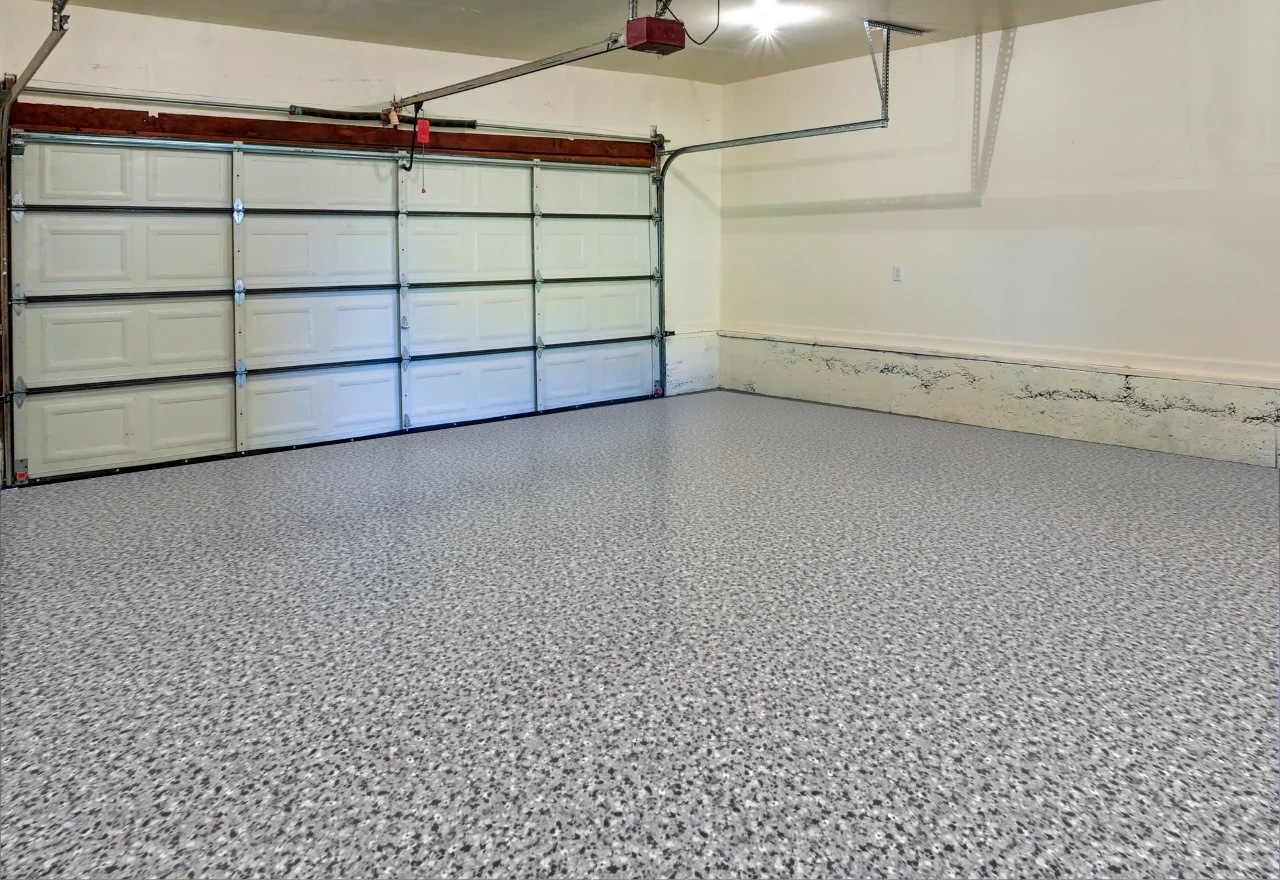
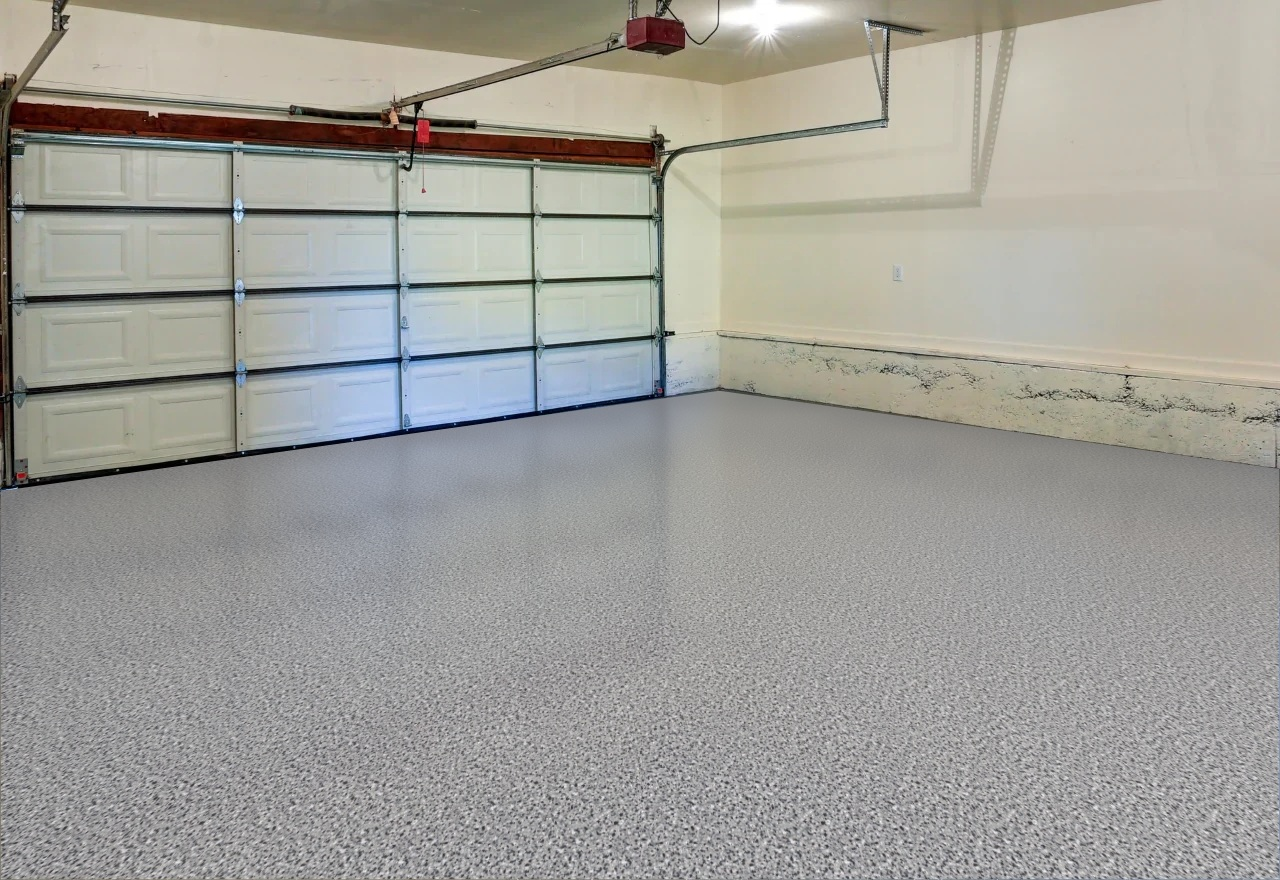
Reduce visualizer flake scale and mix chip sizes across all 27 previews

Changed region(s): [[0.0, 0.5523, 1.0, 1.0]]

diff --git a/floor-visualizer.html b/floor-visualizer.html
@@ -1461,7 +1461,7 @@ function fvApplyColor(skipTrack){
       var preview = new Image();
       preview.onload = function(){ finish(preview.src); };
       preview.onerror = function(){ if (request === fvRenderRequest) render(); };
-      preview.src = 'visualizer-previews/' + color.slug.toLowerCase() + '.jpg';
+      preview.src = 'visualizer-previews/' + color.slug.toLowerCase() + '.jpg?v=20260911-fine';
     } else render();
   }
   if (!skipTrack && color) fvTrack('floor_color_selected', {color: color.slug});
@@ -1870,19 +1870,12 @@ function fvComposite(room, color, callback, shouldCancel){
     // stamp fades out through a radial gradient, no hard edge exists
     // anywhere, and because the stamps wrap, the tile's own borders match
     // perfectly — so it can repeat forever with nothing to see.
-    // CHIP SCALE — this is the bug that made the flakes look enormous.
-    // The previous version cropped 270px of the source photo and drew it
-    // into 337px, i.e. it MAGNIFIED the product photo 1.25x. Source chips
-    // (~30px) became ~37px, so a 512px tile held only ~14 chips, and that
-    // tile was then stretched across ~794px of the near floor — roughly
-    // 58px per chip. Real 1/4" full-broadcast flake reads at ~12-15px at
-    // that distance. Chips are now DOWNSCALED so the tile carries ~37 of
-    // them, cutting rendered chip size by about 75%.
+    // Build detailed chips in texture space; room projection below sets their visible size.
     var TILE = 768;
     var CHIPS_ACROSS_TILE = 72;
     var SRC_CHIP_PX = 30;               // approx chip size in the product photos
     var chipInTile = TILE / CHIPS_ACROSS_TILE;
-    var chipScale = chipInTile / SRC_CHIP_PX; // ~0.46 => a real reduction, not a magnification
+    var chipScale = chipInTile / SRC_CHIP_PX; // reduce the source chips in texture space
 
     var tileCanvas = document.createElement('canvas');
     tileCanvas.width = TILE; tileCanvas.height = TILE;
@@ -1914,7 +1907,6 @@ function fvComposite(room, color, callback, shouldCancel){
     var ds = Math.max(6, cropW * chipScale);        // reduced, never magnified
     var stampSize = Math.max(8, Math.round(ds / 1.5));
     var stampR = stampSize / 2;
-    var maxOffX = Math.max(1, srcW - cropW), maxOffY = Math.max(1, srcH - cropH);
     var stampCanvas = document.createElement('canvas');
     stampCanvas.width = stampSize; stampCanvas.height = stampSize;
     var stampCtx = stampCanvas.getContext('2d');
@@ -1966,15 +1958,21 @@ function fvComposite(room, color, callback, shouldCancel){
       // slight brightness/saturation shift. Real flake is hand-broadcast,
       // so chip size and colour drift across a floor; without this the
       // eye eventually picks up machine-like uniformity.
-      var sJit = 0.90 + rnd() * 0.20;          // +/- ~10% chip size
-      var dsj = ds * sJit;
+      // Mix smaller fragments with medium chips and occasional larger pieces.
+      // Change the source crop, keeping the stamp footprint fully covered.
+      var sizePick = rnd();
+      var sJit = sizePick < 0.55 ? 0.55 + rnd() * 0.30
+        : sizePick < 0.92 ? 0.85 + rnd() * 0.30 : 1.15 + rnd() * 0.25;
+      var sampleW = Math.min(srcW, cropW / sJit);
+      var sampleH = Math.min(srcH, cropH / sJit);
+      var dsj = ds;
       // Brightness/saturation drift is kept small. A whole stamp shifted 5%
       // is a ~123px patch of the tile shifted 5%, i.e. another cloud. The
       // high-pass below would flatten most of it anyway; keeping it tight
       // means there is less for the high-pass to have to undo.
       stampCtx.filter = 'brightness(' + (0.98 + rnd() * 0.04).toFixed(3) +
                         ') saturate(' + (0.97 + rnd() * 0.06).toFixed(3) + ')';
-      stampCtx.drawImage(texImg, rnd() * maxOffX, rnd() * maxOffY, cropW, cropH, -dsj / 2, -dsj / 2, dsj, dsj);
+      stampCtx.drawImage(texImg, rnd() * (srcW - sampleW), rnd() * (srcH - sampleH), sampleW, sampleH, -dsj / 2, -dsj / 2, dsj, dsj);
       stampCtx.filter = 'none';
       stampCtx.restore();
       stampCtx.globalCompositeOperation = 'destination-in';
@@ -2176,12 +2174,9 @@ function fvComposite(room, color, callback, shouldCancel){
       : polyTopY - 0.16 * Math.max(1, polyBotY - polyTopY);
     if (horizonY > polyTopY - 4) horizonY = polyTopY - 4; // keep the floor strictly below the horizon
 
-    // NEAR SCALE. One tile carries CHIPS_ACROSS_TILE chips, so the span a
-    // tile covers at the very front sets the rendered chip size there.
-    // 0.40 * floorWidth over ~37 chips lands near-camera flake at roughly
-    // 13-14px in a 1280px photo, matching the reference installs (the old
-    // 0.62 over ~14 chips gave ~58px, the "giant flake" problem).
-    var nearSpan = Math.max(90, bw * 0.40);
+    // Room-wide view: 55% smaller than the previous 0.40-width projection.
+    // Scaling with floor width keeps the same appearance at every output size.
+    var nearSpan = Math.max(1, bw * 0.18);
     var dNear = polyBotY - horizonY;
     var Acoef = (dNear * dNear) / nearSpan;
     var Bcoef = dNear / nearSpan;
